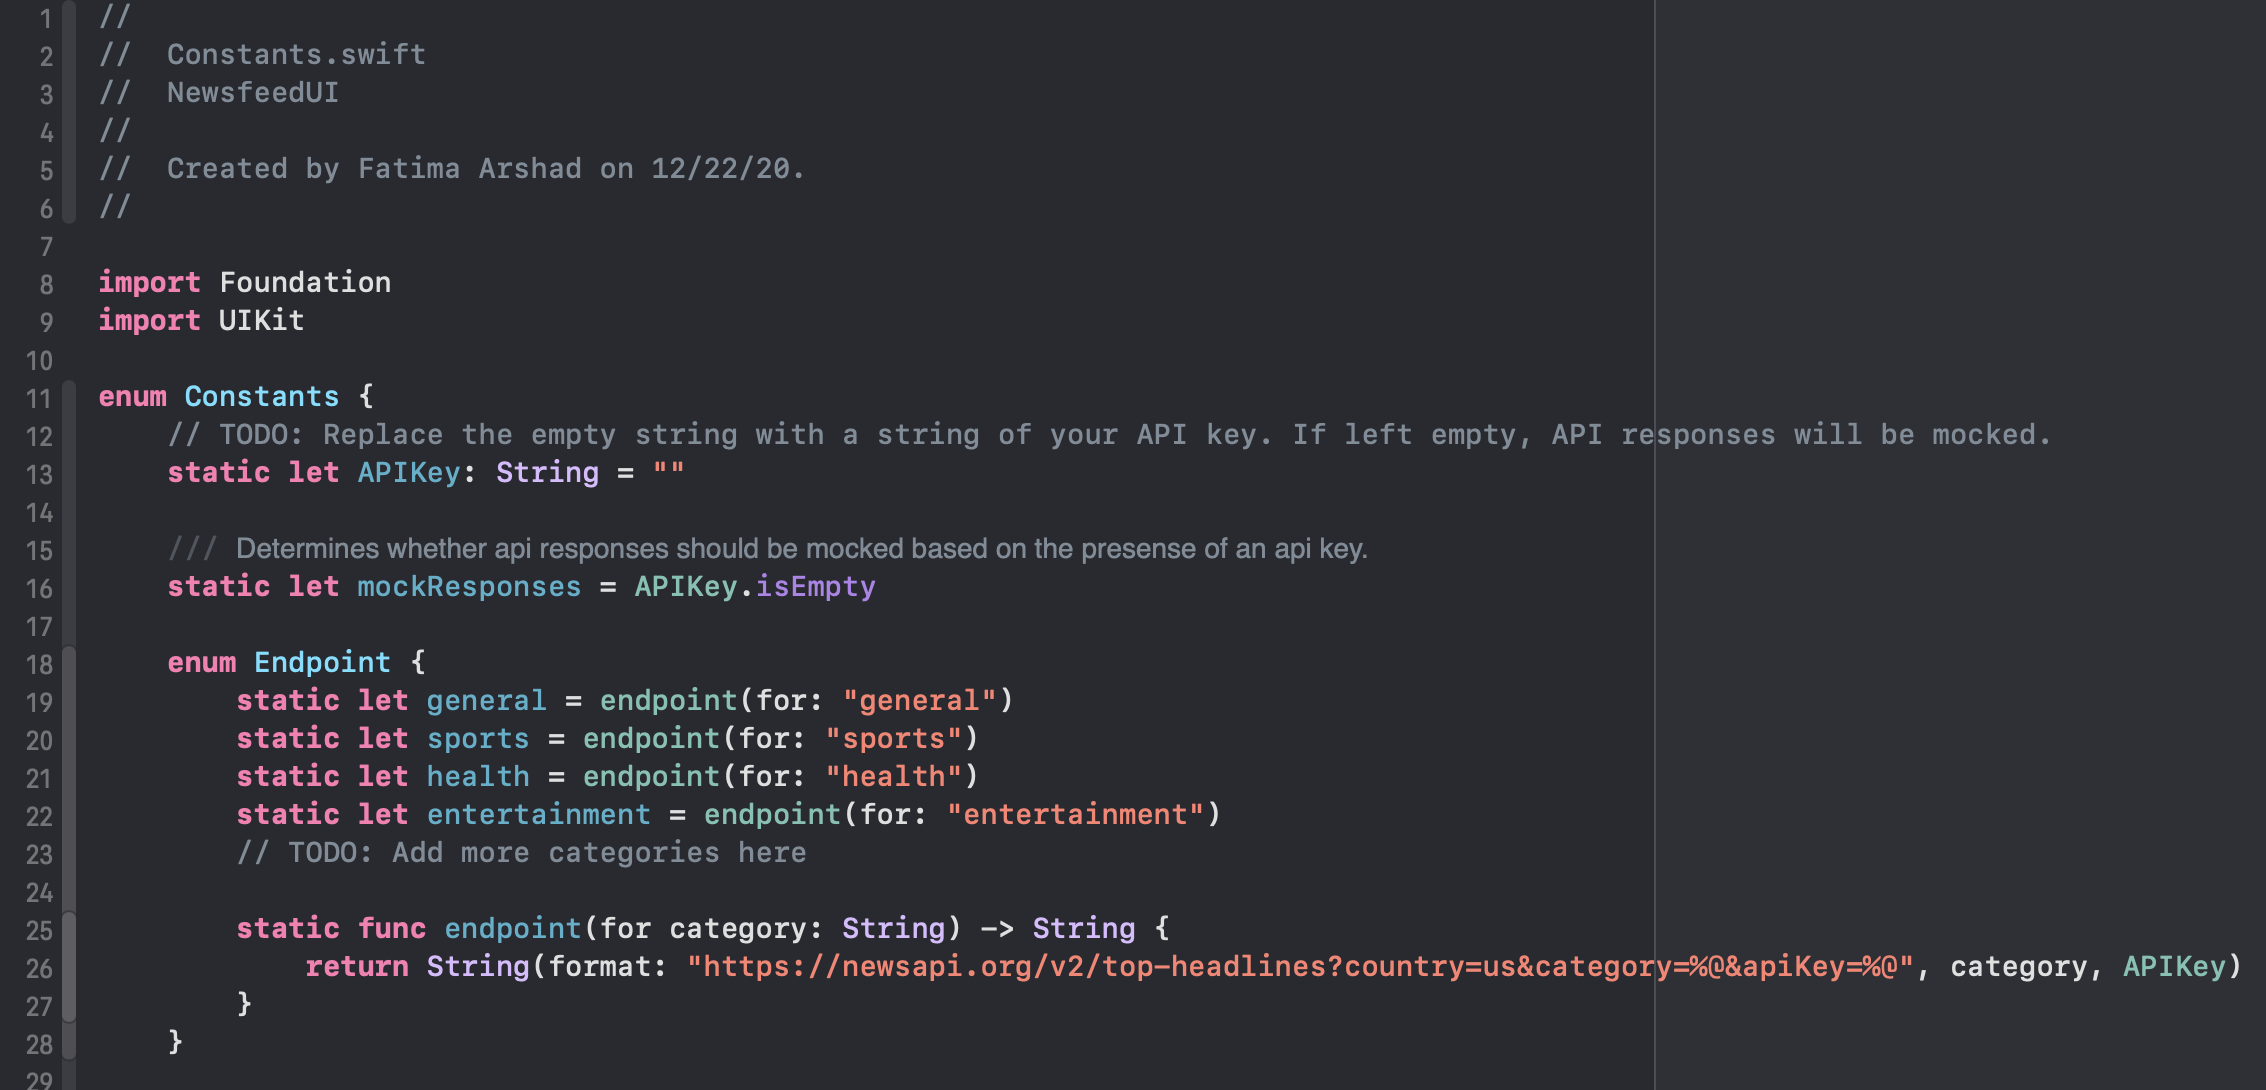
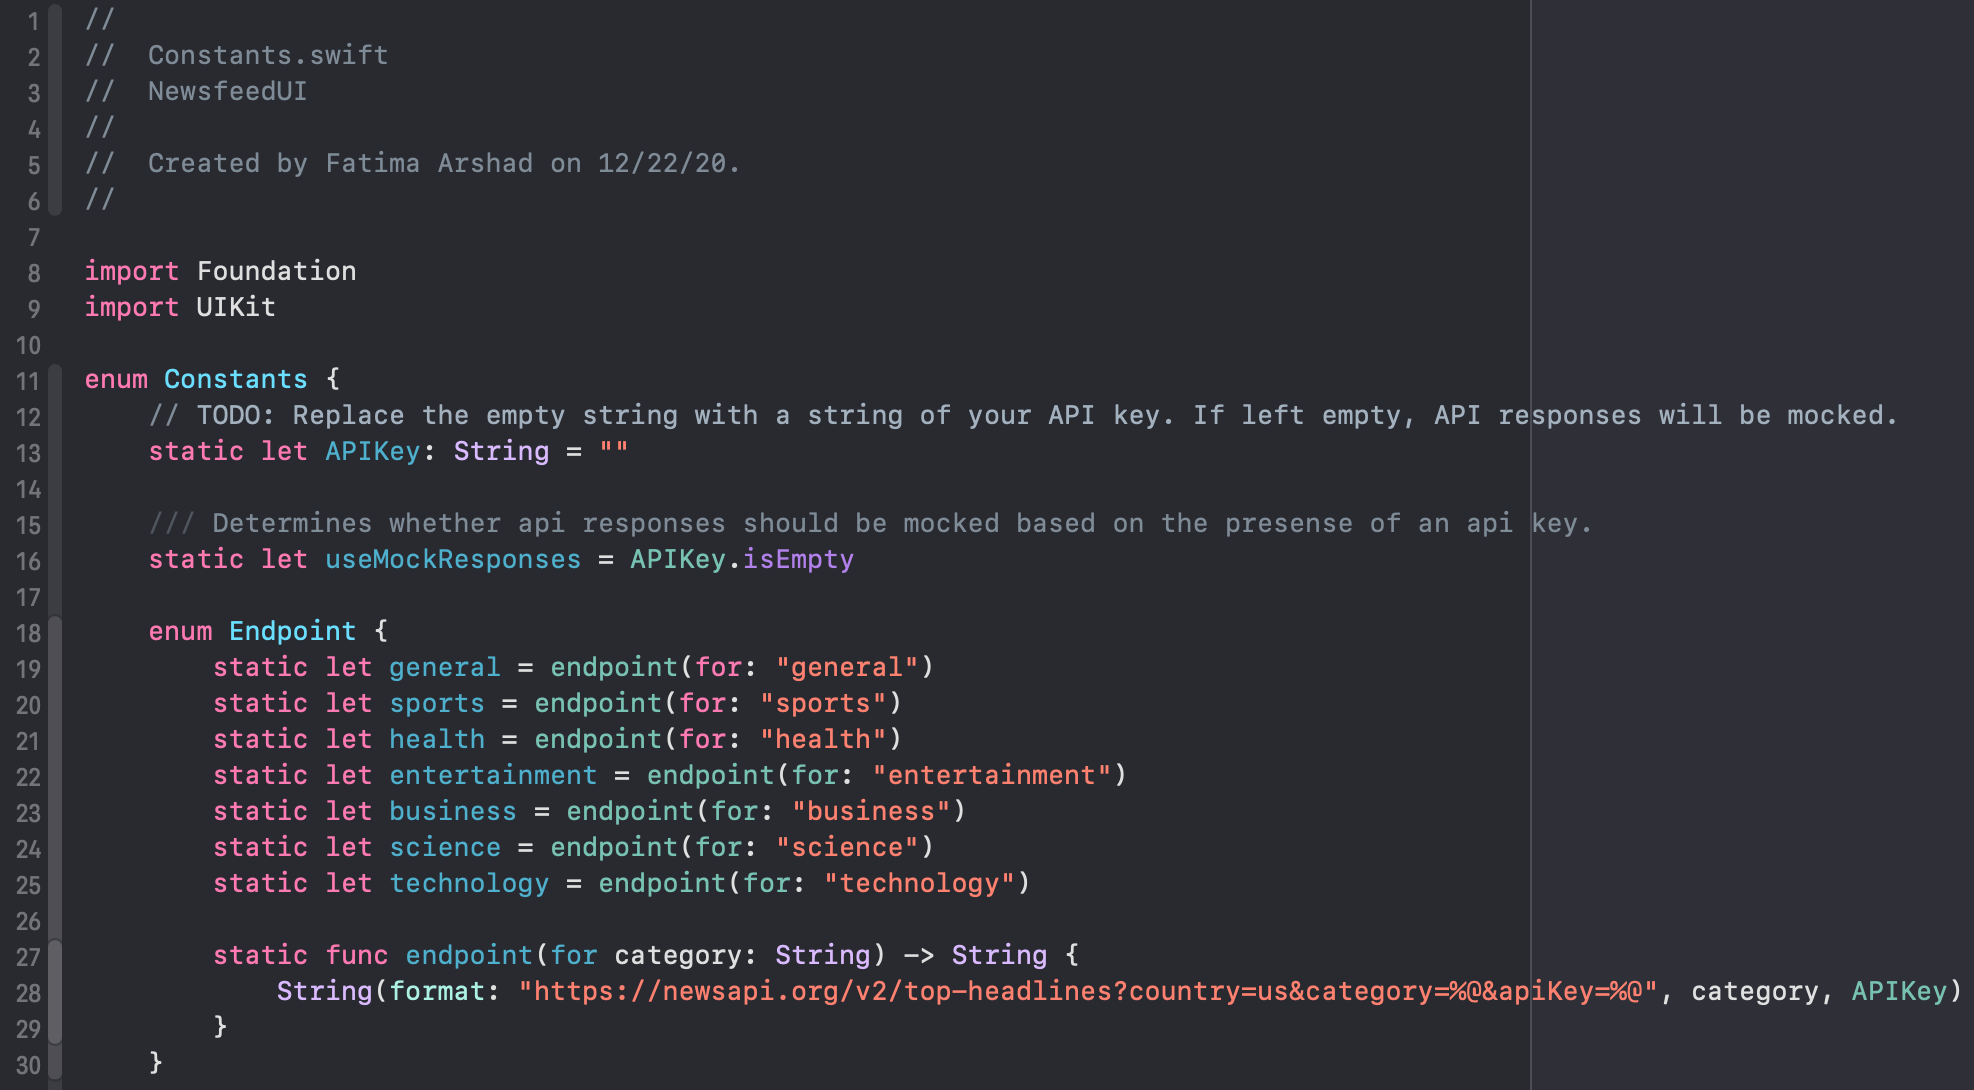
January 2022 updates

Changed region(s): [[0.0, 0.2183, 0.9889, 1.0], [0.0309, 0.1248, 0.3708, 0.1872], [0.0618, 0.0312, 0.1854, 0.0936]]

diff --git a/NewsfeedUI-Starter/NewsfeedUI-Starter/Resources/Constants.swift b/NewsfeedUI-Starter/NewsfeedUI-Starter/Resources/Constants.swift
@@ -20,7 +20,6 @@ enum Constants {
         static let sports = endpoint(for: "sports")
         static let health = endpoint(for: "health")
         static let entertainment = endpoint(for: "entertainment")
-        // TODO: Add more categories here
         static let business = endpoint(for: "business")
         static let science = endpoint(for: "science")
         static let technology = endpoint(for: "technology")

diff --git a/NewsfeedUI/NewsfeedUI/Resources/Constants.swift b/NewsfeedUI/NewsfeedUI/Resources/Constants.swift
@@ -20,7 +20,6 @@ enum Constants {
         static let sports = endpoint(for: "sports")
         static let health = endpoint(for: "health")
         static let entertainment = endpoint(for: "entertainment")
-        // TODO: Add more categories here
         static let business = endpoint(for: "business")
         static let science = endpoint(for: "science")
         static let technology = endpoint(for: "technology")

diff --git a/NewsfeedUI/NewsfeedUI/Views/ContentView.swift b/NewsfeedUI/NewsfeedUI/Views/ContentView.swift
@@ -48,6 +48,7 @@ struct ContentView: View {
                         .listRowInsets(EdgeInsets())
                 }
             }
+            .listStyle(PlainListStyle())
             .navigationTitle("Newsfeed")
         }
     }

diff --git a/StepByStepInstructions.md b/StepByStepInstructions.md
@@ -35,7 +35,7 @@ The first file is `Constants.swift`. If you have a personal API key to use, you'
 
 Next is `APIResponse.swift`. In this file, you'll find the classes `NewsArticle` and `NewsApiResponse`. These are the data models for our app. `NewsArticle` represents a single article, and `NewsApiResponse` represents a response from the News API, which contains an array of `[NewsArticle]`'s.
 
-`Models.swift` contains a class called `NewsFeed`. This class will fetch and store all of the different news articles from the API. It has a property for each category of news (`general`, `sports`, `health`, `entertainment`). These properties are arrays of `NewsArticle`'s corresponding to the different categories. As you can see, `NewsFeed` implements the `ObservableObject` protocol. An `ObservableObject` will publish announcements when it's values have changed so that SwiftUI can react to those changes and update the user interface. The properties in this class (`general`, `sports`, `health`, `entertainment`) are all marked as `@Published`, which tells SwiftUI that these properties should trigger change notifications. Later on in the workshop, you'll see how these properties are used to reactively display news articles. If you want to read more about this topic, [this is a good place to start](https://www.hackingwithswift.com/quick-start/swiftui/observable-objects-environment-objects-and-published). `NewsFeed` also contains a `static var sampleData`, which is just an array of sample news articles that we will use to test our app throughout the workshop.
+`Models.swift` contains a class called `NewsFeed`. This class will fetch and store all of the different news articles from the API. It has a property for each category of news (`general`, `sports`, `health`, `entertainment`, `business`, `science`, & `technology`). These properties are arrays of `NewsArticle`'s corresponding to the different categories. As you can see, `NewsFeed` implements the `ObservableObject` protocol. An `ObservableObject` will publish announcements when it's values have changed so that SwiftUI can react to those changes and update the user interface. The properties in this class (`general`, `sports`, `health`, `entertainment`, `business`, `science`, & `technology`) are all marked as `@Published`, which tells SwiftUI that these properties should trigger change notifications. Later on in the workshop, you'll see how these properties are used to reactively display news articles. If you want to read more about this topic, [this is a good place to start](https://www.hackingwithswift.com/quick-start/swiftui/observable-objects-environment-objects-and-published). `NewsFeed` also contains a `static var sampleData`, which is just an array of sample news articles that we will use to test our app throughout the workshop.
 
 Under the "Views" group, we have also have `RemoteImage.swift`. This class defines a `View` called `RemoteImage` that will download and display an image from any URL that you provide to it. The implementation details are a bit out of the scope of this tutorial, but we will at least see how to use this `View` later on in the workshop.
 
@@ -554,7 +554,7 @@ struct ContentView: View {
 ```
 
 * `@ObservedObject` is a property wrapper. It tells our `ContentView` to observe the state of the `newsFeed` and react to any changes. This means that when the `newsFeed` changes, any views that depend on it will be reloaded. This happens when our app finishes fetching news articles and loads them into the `newsFeed`.
-* `NewsFeed` is our API request engine. When we create this object, it makes a few different API requests to retrieve different categories of news articles (General, Sports, Health, Entertainment). After these API calls complete, we can access the General category of articles by using `newsFeed.general`, for example. Again, if you set up your API key at the beginning of this tutorial, you will be fetching live data, but be aware that this will cause the Canvas preview to show up blank.
+* `NewsFeed` is our API request engine. When we create this object, it makes a few different API requests to retrieve different categories of news articles. After these API calls complete, we can access the General category of articles by using `newsFeed.general`, for example. Again, if you set up your API key at the beginning of this tutorial, you will be fetching live data, but be aware that this will cause the Canvas preview to show up blank.
 
 3. In the `body`, wrap the existing `Text` inside of a `NavigationView` and give it a `.navigationTitle`:
 
@@ -580,6 +580,7 @@ var body: some View {
                     .listRowInsets(EdgeInsets())
             }
         }
+        .listStyle(PlainListStyle())
         .navigationTitle("Newsfeed")
     }
 }
@@ -588,9 +589,9 @@ var body: some View {
 * A `List` is just a container that will present rows of data arranged in a single column. Right now, we are only providing one row of data, which is our `CarouselView`.
 * Before we add the `CarouselView` to the `List`, we check to see if `!newsFeed.general.isEmpty`. We do this because we need at least 1 article in `newsFeed.general` in order to create a `CarouselView`. Otherwise, we would have nothing to display. If there's at least 1 article in `newsFeed.general`, we display the `CarouselView`. Otherwise, we don't add it to the `List`.
 * When we create the `CarouselView`, we provide it with `Array(newsFeed.general.prefix(5))`. This is will take up to 5 articles from the General category, and display them in the `CarouselView`.
-* We use `.listRowInsets(EdgeInsets())` to set the edge insets to zero for the `CarouselView`. This allows the content to extend to the edges of the screen.
+* We use `.listRowInsets(EdgeInsets())` to set the edge insets to zero for the `CarouselView`. Adding the `PlainListStyle()` style modifier removes the insets from the entire list. This combined with the row insets allows the content to extend to the edges of the screen.
 
-5. Add 3 `CategoryRow`'s to the `List`, one for each of the categories Sports, Health, and Entertainment:
+5. Add 3 `CategoryRow`'s to the `List`, one for each of the categories Sports, Health, and Entertainment (you can choose different categories later if you wish):
 
 ```swift
 var body: some View {
@@ -825,9 +826,20 @@ ForEach(articles) { article in
 }
 ```
 
-> Switch to `ContentView.swift` and refresh the Canvas to start a live preview. You should now be able to click on elements in the home screen and navigate to the article details, and back again.
+> Switch to `ContentView.swift` and refresh the Canvas to start a live preview. You should now be able to click on elements in the home screen and navigate to the article details, and back again. That's it for the main navigation of the app!
 
-## 7. Opening the Full Article from the Detail Page
+## 7. Customization
+
+Now that the main UI is complete, there are a few things you can to do customize the app to make it your own. 
+
+1. For starters, you may want to change the default news categories that are displayed in the main view. We included support for all of the categories in [News API's top-headlines endpoint](https://newsapi.org/docs/endpoints/top-headlines): `general`, `business`, `entertainment`, `health`, `science`, `sports`, and `technology`. Feel free to display whichever categories you're interested in (or all of them!) by following the process of adding the `CategoryRow`s to the `ContentView`'s list from [4. Building the Home Screen](#4-building-the-home-screen). You can also change the name of the navigation title from "Newsfeed" to whatever you want!
+
+2. Be creative. SwiftUI makes it very easy to modify style across your views. Check out the [SwiftUICheatSheet](SwiftUICheatSheet.md) we provided to customize the look and feel of your app. Some ideas are to change the text font, color scheme, corner radii, etc.
+
+3. If you haven't already, now is a good time to hit live data! Check out [Getting Set Up for API Calls](#getting-set-up-for-api-calls) from section 1 again for a refresher on setting up and adding your News API key. 
+
+
+## On Your Own: Opening the Full Article from the Detail Page
 
 Now that we can navigate to the `DetailView` from the home screen, let's wrap up by adding functionality to our "View Full Article" button in the `DetailView`.
 

diff --git a/README.md b/README.md
@@ -4,7 +4,7 @@ This workshop covers building a Newsfeed app using SwiftUI, and it's meant to be
 
 ## Requirements
 
-This project has been updated to work with Xcode 12.4, Swift 5.3, and iOS 14.4. Xcode 12.4 requires a Mac running macOS 10.15.4 or later.
+This project has been updated to work with Xcode 13.2.1, Swift 5.5, and iOS 15.2. Xcode 13.2.1 requires a Mac running macOS 11.3 Big Sur or later.
 
 * Download Xcode [here](https://developer.apple.com/xcode/)
 
@@ -14,17 +14,7 @@ In this repo, you'll find two versions of the NewsfeedUI App: a starter project 
 
 To get started, open the `Newsfeed-Starter.xcodeproj` file located in the `NewsfeedUI-Starter` directory. Please refer to the [Step By Step Instructions](./StepByStepInstructions.md) for detailed instructions on building this app. During the workshop you can use these instructions to follow along.
 
-## Bonus Functionality
-
-If you're feeling up to it, you can add more news categories to the home screen.
-
-To do this, you will first need to create URLs for the additional news categories. Open `Constants.swift` and look at `enum Endpoint`. Here we have `static let` constants for each of the existing categories `general`, `sports`, `health`, and `entertainment`. First, take a look at the [News API's top headlines endpoint](https://newsapi.org/docs/endpoints/top-headlines) and choose a new category to add (`technology` for example). Then, add 1 new `static let` for each additional news category that you want to display.
-
-Next, you need to use those URLs to add some more API calls to `Models.swift`. Open that file, and look at `func startLoadingNewsFeeds()`. That function contains multiple API calls to retrieve the General, Sports, Health, and Entertainment categories of news. You will need to add 1 new API call for each new category URL you added to `Constants.swift`. You can copy and paste one of the existing API requests and adjust it slightly to work with a different category. Don't forget to also add a `@Published var` to the `NewsFeed` class for each additional category.
-
-Lastly, open `ContentView.swift` and add 1 new `CategoryRow` to the `List` for each additional news category you have added. This will look the same as all of the other `CategoryRows`, with some minor changes to use your new category. 
-
-### App Design
+## App Design
 
 SwiftUI allows you to customize any UI element in several ways. For example, text can be customized with different colors, fonts, backgrounds or rotation effects.
 
@@ -33,6 +23,7 @@ Learn more about customizing your application with the following resources:
 * [Text](https://www.appcoda.com/learnswiftui/swiftui-text.html)
 * [Navigation Bar](https://www.ioscreator.com/tutorials/swiftui-customize-navigation-bar-tutorial)
 * [Custom Launch Screen](https://www.tutlane.com/tutorial/ios/ios-launch-screen-splash-screen)
+* Check out our [SwiftUICheatSheet](SwiftUICheatSheet.md) as well!
 
 ## References
 
